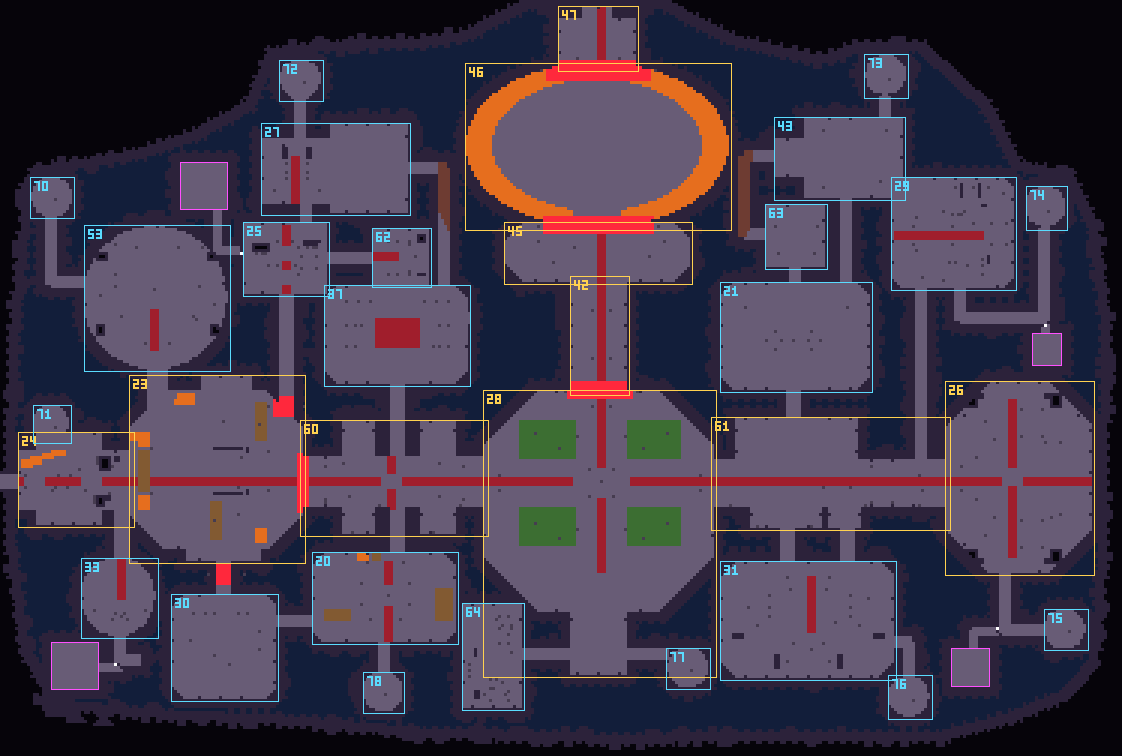
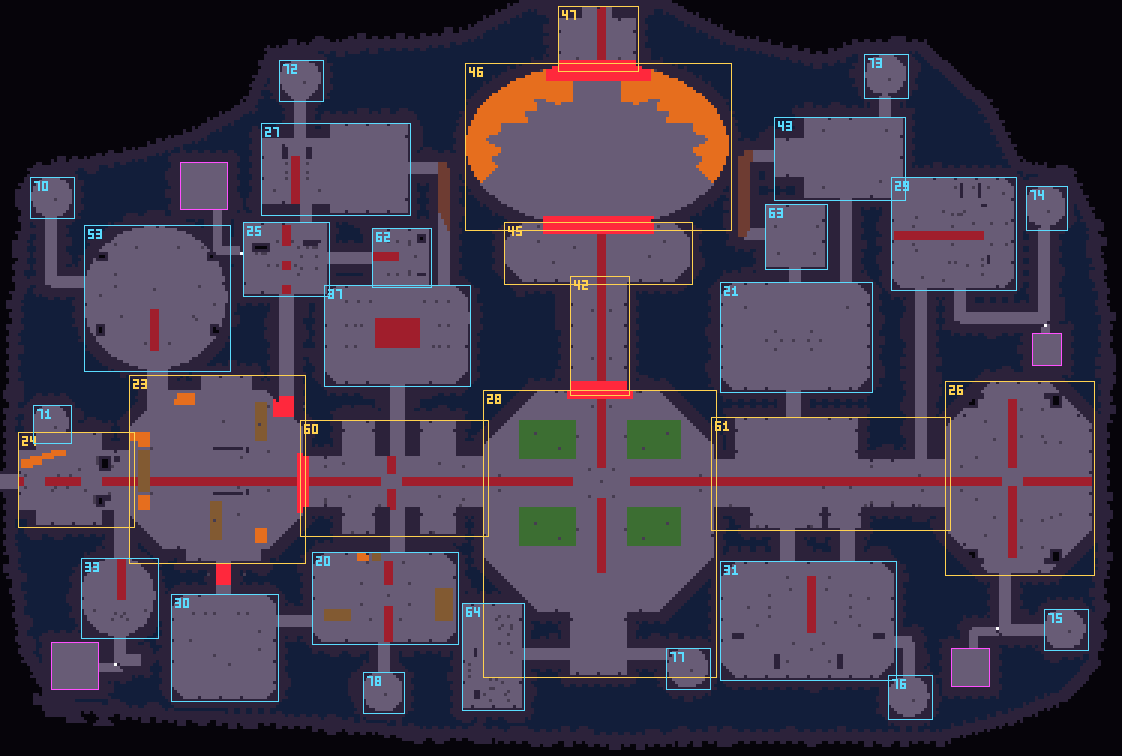
Sunthief's Castle, the rest of the deviations, and stage E. The Corrupted Rose Court's tree is the sheet's purple one: castle_art/rose_tree, the great crimson tree with its crown violet and its embers a magenta glow (its trunk left dark wood; derived in tools/build_castle_assets.py so a rebuild keep

Changed region(s): [[0.4367, 0.0913, 0.6239, 0.3042], [0.5615, 0.213, 0.6551, 0.3042]]

diff --git a/src/world/maps.js b/src/world/maps.js
@@ -116,7 +116,7 @@ export function isSolid(m, x, y) {
 // (low ruin walls and whale ribs you step over: their rows walled players and realm bosses in)
 // only the big things stop you: trees, rocks, spires, pillars and walls, statues, the great furniture, gates. Chests,
 // crates, barrels, braziers, candles, fences, seats, signs, lamps, shrines and people you walk through, as in RotMG
-const BIG = /tree|palm|pine|oak|deadwood|keep_stone|keep_pylon|keep_(?:bunk|armor|dummy|pew|pillar_iron|anvil|basin|furnace|rack|winch)|crimson_(?:big|mid|small)|castle_art\/(?:ruin_(?:swordsman|kneeling|torso|crowned_head)|pedestal|altar|brazier|statue|throne|gargoyle)|keep_brazier|keep_bowl|keep_ritual|keep_wheel|castle_decor\/(?:log|barricade|wagon|siege_engine|tent|pipe|lava_tank|bed|table|winch|valve)$|saguaro|giant_mushroom|rotting_log|boulder|rock|cairn|spire|crystal_cluster|ice_crystal|pillar|column|obelisk|(?<!ruin_)wall|statue|fallen_head|bookshelf|furnace|well$|fountain|throne|sarcophag|coffin|gate|telescope|star_globe|high_striker|circus_cannon|rowboat|ticket_booth|stage_moon|great_lens|golem_husk|anvil_block|crucible|stump|gargoyle/;
+const BIG = /tree|palm|pine|oak|deadwood|keep_stone|keep_pylon|keep_(?:bunk|armor|dummy|pew|pillar_iron|anvil|basin|furnace|rack|winch)|crimson_(?:big|mid|small)|rose_tree|castle_art\/(?:ruin_(?:swordsman|kneeling|torso|crowned_head)|pedestal|altar|brazier|statue|throne|gargoyle)|keep_brazier|keep_bowl|keep_ritual|keep_wheel|castle_decor\/(?:log|barricade|wagon|siege_engine|tent|pipe|lava_tank|bed|table|winch|valve)$|saguaro|giant_mushroom|rotting_log|boulder|rock|cairn|spire|crystal_cluster|ice_crystal|pillar|column|obelisk|(?<!ruin_)wall|statue|fallen_head|bookshelf|furnace|well$|fountain|throne|sarcophag|coffin|gate|telescope|star_globe|high_striker|circus_cannon|rowboat|ticket_booth|stage_moon|great_lens|golem_husk|anvil_block|crucible|stump|gargoyle/;
 export const blocks = (sprite) => BIG.test(sprite || '');
 function finalize(m) {
   for (let i = 0; i < m.tiles.length; i++) if (SOLID_TILES.has(m.tiles[i])) m.solid[i] = 1;
@@ -2176,7 +2176,11 @@ export function dungeon(seed, def) {
           let k = 0; for (let Y = n.y; Y < n.y + n.h; Y++) for (let X = n.x; X < n.x + n.w; X++) if (ok(X, Y) && wallN(X, Y) && (X + Y) % 6 === 0) put(m, k++ % 2 ? 'castle_art/banner_sun' : 'castle_art/banner_crown', X, Y, false);
           for (let Y = n.y; Y < n.y + n.h; Y++) for (let X = n.x; X < n.x + n.w; X++) if (ok(X, Y) && wallS(X, Y) && X % 9 === 4) put(m, 'castle_art/brazier_gold', X, Y, true);
         }
-        if (/^tw/.test(n.master)) { const X = Math.round(n.x + n.w / 2), Y = Math.round(n.y + n.h / 2); if (own(X, Y)) put(m, 'castle_art/brazier_gold', X, Y, true); }
+        if (/^tw/.test(n.master)) {                            // (a tower: its signal fire in the middle, a pennant on its north wall, its stores by the walls)
+          const X = Math.round(n.x + n.w / 2), Y = Math.round(n.y + n.h / 2); if (own(X, Y)) put(m, 'castle_art/brazier_gold', X, Y, true);
+          let y2 = Y; while (own(X, y2 - 1)) y2--; if (ok(X, y2)) put(m, 'castle_art/pennant_crown', X, y2, false);
+          for (const [dx, dy, sp2] of [[-3, 2, 'castle_props/barrel'], [3, 2, 'castle_props/crate_stack'], [-3, -2, 'castle_decor/rubble']]) if (ok(X + dx, Y + dy)) put(m, sp2, X + dx, Y + dy, sp2 !== 'castle_decor/rubble');
+        }
         if (n.master === 'ashkar') for (const a of [0.6, 2.55, 3.7, 5.65]) {   // (his chains: four posts round the floor's edge, by the lava; none in his lanes)
           let X = Math.round(n.cx + Math.cos(a) * n.w * 0.33), Y = Math.round(n.cy + Math.sin(a) * n.h * 0.33);
           if (ok(X, Y)) put(m, 'castle_decor/chain_post', X, Y, false);

diff --git a/src/world/castle_master.js b/src/world/castle_master.js
@@ -133,7 +133,13 @@ export function buildMaster() {
     }
     if (R.lavaRim) {                                                  // (Ashkar's arena: a ring of lava inside its wall)
       const p = R.parts[0], [x0, y0, x1, y1] = p.b, cx = (x0 + x1) / 2, cy = (y0 + y1) / 2, rx = (x1 - x0) / 2, ry = (y1 - y0) / 2, k0 = 1 - R.lavaRim / Math.min(rx, ry);
-      for (let i = 0; i < w * h; i++) if (owner[i] === k) { const [px, py] = toP(i % w + 0.5, Math.floor(i / w) + 0.5), q = Math.sqrt(((px - cx) / rx) ** 2 + ((py - cy) / ry) ** 2); if (q > k0 && Math.abs(px - cx) > 20) T[i] = K.LAVA; }
+      // (as the sheet has it, 2026-11-05: the lava deepest along the top and down the sides, its edge ragged, thinning to nothing
+      // at the south where you come in; the way north to the keep kept open through it)
+      for (let i = 0; i < w * h; i++) if (owner[i] === k) {
+        const [px, py] = toP(i % w + 0.5, Math.floor(i / w) + 0.5), u = (px - cx) / rx, v = (py - cy) / ry, q = Math.sqrt(u * u + v * v), th = Math.atan2(v, u), up = -Math.sin(th);
+        const rim = up < -0.45 ? 0 : (R.lavaRim * 0.6 + R.lavaRim * 1.5 * Math.max(0, (up + 0.45) / 1.45) + 4 * Math.sin(th * 9) + 3 * Math.sin(th * 23)) / Math.min(rx, ry);
+        if (q > 1 - rim && !(py < cy && Math.abs(px - cx) <= 20)) T[i] = K.LAVA;
+      }
     }
   });
   // the walkways

diff --git a/src/world/castle_rooms.js b/src/world/castle_rooms.js
@@ -241,7 +241,7 @@ export const PAGES = {
     stairs: [[16, 34, 23, 39]],
     runners: [['ns', 19, 23, 33, 'crown']],
     props: [
-      ['castle_art/deadwood_big', 19, 17], ['castle_art/brazier_purple', 14, 6], ['castle_art/brazier_purple', 25, 6], ['castle_art/statue_queen', 8, 5], ['castle_decor/rubble', 30, 5, false], ['castle_decor/shattered_statue', 32, 6],
+      ['castle_art/rose_tree', 19, 17], ['castle_art/brazier_purple', 14, 6], ['castle_art/brazier_purple', 25, 6], ['castle_art/statue_queen', 8, 5], ['castle_decor/rubble', 30, 5, false], ['castle_decor/shattered_statue', 32, 6],
       ['castle_art/brazier_gold', 8, 16], ['castle_art/brazier_gold', 31, 16], ['castle_art/brazier_gold', 10, 24], ['castle_art/brazier_gold', 29, 24],
       ['castle_art/ember_bloom', 5, 11, false], ['castle_art/ember_bloom', 7, 10, false], ['castle_art/leaf_ember', 6, 12, false], ['castle_art/ember_bloom', 33, 11, false], ['castle_art/ember_bloom', 31, 10, false], ['castle_art/leaf_ember', 34, 12, false],
       ['castle_art/ember_bloom', 6, 26, false], ['castle_art/ember_bloom', 8, 27, false], ['castle_art/leaf_ember', 7, 25, false],

diff --git a/src/bossx.js b/src/bossx.js
@@ -49,7 +49,8 @@ export const BXF = {
     }
     if (S.state === 'sleep' || e.state === 'sleep') {
       const R0 = e.room;
-      if (!R0 || (p.x > R0.x && p.x < R0.x + R0.w && p.y > R0.y && p.y < R0.y + R0.h)) this.bxWake(e);
+      const M0 = R0 && R0.master && this.map.masterOwn;   // (a room of the castle's fixed footprint: in it by its own floor, not its box, which can take in a corner of the next)
+      if (!R0 || (M0 ? this.map.masterOwn(Math.floor(p.x), Math.floor(p.y)) === R0.master : p.x > R0.x && p.x < R0.x + R0.w && p.y > R0.y && p.y < R0.y + R0.h)) this.bxWake(e);
       return;
     }
     if (S.state === 'deathhold') {                              // dead on its last frame, shaking; then it bursts

diff --git a/tools/build_castle_assets.py b/tools/build_castle_assets.py
@@ -47,6 +47,17 @@ def flicker(g, k):                                          # a flame's frame: i
     return [[f(c, x, y) for x, c in enumerate(r)] for y, r in enumerate(g)]
 
 
+def rose(g):                                                # the great crimson tree turned purple (the user's master sheet's corrupted rose tree): its crown
+    h = len(g)                                              # violet, its embers a magenta glow; its trunk left dark wood
+    def f(c, y):
+        if not c[3]: return c
+        r, gg, b, a = c
+        if r > 170 and gg > 70: return (255, min(255, 90 + gg // 3), 235, a)          # (an ember: a magenta glow)
+        if y < h * 0.66 and r >= gg: return (int(r * 0.78), int(gg * 0.45), min(255, int(r * 1.05 + b * 0.3)), a)   # (the crown: violet)
+        return c
+    return [[f(c, y) for c in row] for y, row in enumerate(g)]
+
+
 def pack(items, name, kind):
     W = sum(len(g[0]) + 1 for _, g in items); H = max(len(g) for _, g in items)
     sheet = [[BL] * W for _ in range(H)]; x0 = 0; fr = {}
@@ -62,6 +73,7 @@ if __name__ == '__main__':
     deco = []
     for i, n in enumerate(STATUES): deco.append((n, trim(load('sheet_statues', i))))
     for i, n in enumerate(TREES): deco.append((n, trim(load('sheet_trees', i))))
+    deco.append(('rose_tree', rose(dict(deco)['crimson_big'])))   # (the Corrupted Rose Court's tree, 2026-11-05: the great crimson tree in the sheet's purple)
     for i, n in enumerate(BANNERS): deco.append((n, trim(load('sheet_banners', i))))
     items = []
     for n, g in deco:
